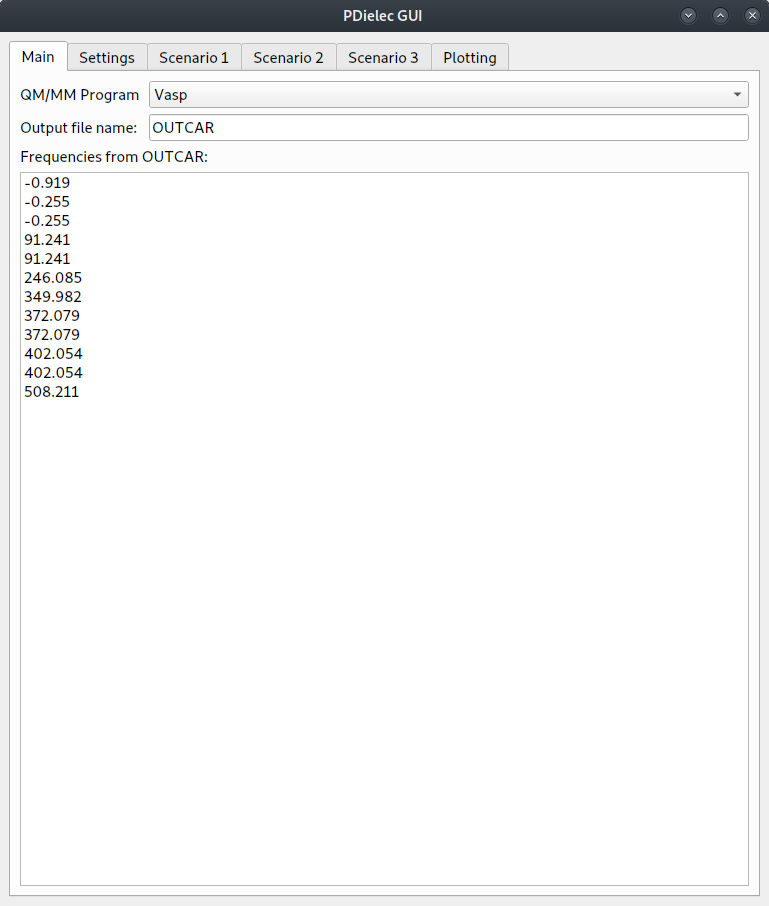
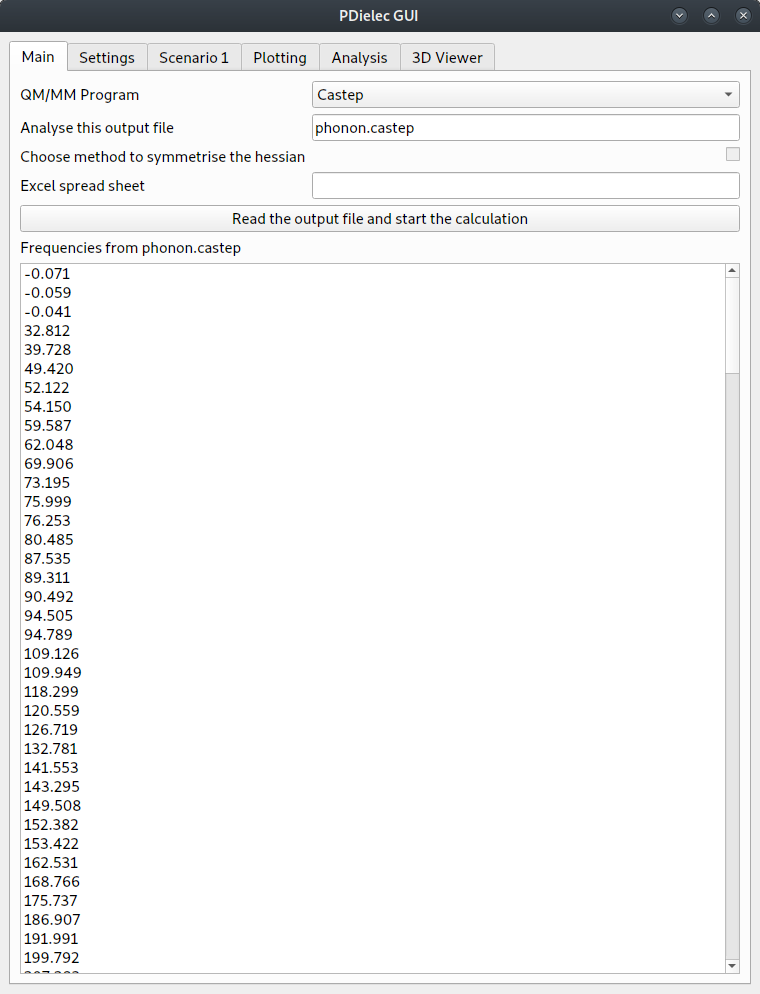
Updated the documentation

Changed region(s): [[0.0, 0.0, 1.0, 0.989]]

diff --git a/Python/GUI/MainTab.py b/Python/GUI/MainTab.py
@@ -3,7 +3,7 @@ import os.path
 from PyQt5.QtWidgets  import  QWidget
 from PyQt5.QtWidgets  import  QListWidget, QComboBox, QLabel, QLineEdit
 from PyQt5.QtWidgets  import  QFileDialog, QPushButton, QCheckBox
-from PyQt5.QtWidgets  import  QFormLayout
+from PyQt5.QtWidgets  import  QFormLayout, QApplication
 from PyQt5.QtWidgets  import  QVBoxLayout, QMessageBox
 from PyQt5.QtCore     import  Qt, QCoreApplication
 from Python.Utilities import  get_reader, Debug
@@ -212,6 +212,7 @@ class MainTab(QWidget):
             print('Need to choose the file and program properly')
             QMessageBox.about(self,'Processing output file','The filename for the output file to be processed is not correct: '+self.settings['Output file name'])
             return
+        QApplication.setOverrideCursor(Qt.WaitCursor)
         # Update the checkbox
         if self.settings['Hessian symmetrisation'] == 'crystal':
             self.hessian_symmetry_cb.setCheckState(Qt.Checked)
@@ -263,6 +264,7 @@ class MainTab(QWidget):
             self.notebook.viewerTab.refresh()
         else:
             debugger.print('notebook has no viewer tab yet')
+        QApplication.restoreOverrideCursor()
 
     def on_hessian_symmetry_changed(self):
         debugger.print('on hessian symmetry changed')
@@ -298,11 +300,13 @@ class MainTab(QWidget):
         # Open a file chooser
         #options = QFileDialog.Options()
         #options |= QFileDialog.DontUseNativeDialog
-        self.settings['Output file name'], _ = QFileDialog.getOpenFileName(self,'Open MM/QM Output file','','Castep (*.castep);;Abinit (*.out);;Gulp (*.gout);;VASP (OUTCAR*);; QE (*.dynG);; Crystal 14 (*.out);; Phonopy (OUTCAR*);; All Files (*)')
-        debugger.print('new file name', self.settings['Output file name'])
-        self.file_le.setText(self.settings['Output file name'])
-        self.directory = os.path.dirname(self.settings['Output file name'])
-        self.dirty = True
+        filename, _ = QFileDialog.getOpenFileName(self,'Open MM/QM Output file','','Castep (*.castep);;Abinit (*.out);;Gulp (*.gout);;VASP (OUTCAR*);; QE (*.dynG);; Crystal 14 (*.out);; Phonopy (OUTCAR*);; All Files (*)')
+        if filename != '':
+            self.settings['Output file name'] = filename
+            self.file_le.setText(self.settings['Output file name'])
+            debugger.print('new file name', self.settings['Output file name'])
+            self.directory = os.path.dirname(self.settings['Output file name'])
+            self.dirty = True
         return
  
     def on_file_le_changed(self, text):

diff --git a/Python/GUI/ViewerTab.py b/Python/GUI/ViewerTab.py
@@ -6,7 +6,7 @@ from PyQt5.QtWidgets         import  QPushButton, QWidget
 from PyQt5.QtWidgets         import  QComboBox, QLabel, QLineEdit
 from PyQt5.QtWidgets         import  QVBoxLayout, QHBoxLayout, QFormLayout
 from PyQt5.QtWidgets         import  QSpinBox, QTabWidget, QDoubleSpinBox
-from PyQt5.QtWidgets         import  QSizePolicy, QColorDialog, QMessageBox
+from PyQt5.QtWidgets         import  QSizePolicy, QColorDialog, QMessageBox, QApplication
 from PyQt5.QtCore            import  Qt
 from Python.Constants        import  wavenumber, amu, PI, avogadro_si, angstrom
 from Python.Constants        import  elemental_colours
@@ -267,6 +267,7 @@ class ViewerTab(QWidget):
         # We need to remember the visualisation settings
         #
         old_plot_type = self.plot_type_index
+        QApplication.setOverrideCursor(Qt.WaitCursor)
         if extension == '.png':
             self.opengl_widget.snapshot(filename)
         elif extension == '.avi':
@@ -276,6 +277,7 @@ class ViewerTab(QWidget):
         elif extension == '.gif':
             self.opengl_widget.save_movie(filename)
         self.plot_type_index = old_plot_type
+        QApplication.restoreOverrideCursor()
         return
 
     def on_coloured_element_clicked(self,boolean):
@@ -377,6 +379,7 @@ class ViewerTab(QWidget):
             return
         if filename is '':
             return
+        QApplication.setOverrideCursor(Qt.WaitCursor)
         # Assemble the settingsTab settings
         settings = self.notebook.settingsTab.settings
         self.frequencies_cm1 = self.notebook.settingsTab.frequencies_cm1
@@ -422,6 +425,7 @@ class ViewerTab(QWidget):
         self.opengl_widget.setRotationCentre(self.unit_cell.calculateCentreOfMass() )
         self.opengl_widget.setImageSize()
         self.dirty = False
+        QApplication.restoreOverrideCursor()
         return
 
     def setColour(self, element, colour):
@@ -496,6 +500,7 @@ class ViewerTab(QWidget):
             debugger.print('refresh aborted',self.dirty,force)
             return
         debugger.print('refresh widget',force)
+        QApplication.setOverrideCursor(Qt.WaitCursor)
         #
         # Block signals during refresh
         # 
@@ -563,5 +568,6 @@ class ViewerTab(QWidget):
             w.blockSignals(False)
         self.calculate()
         self.plot()
+        QApplication.restoreOverrideCursor()
         return
 

diff --git a/Python/GUI/OpenGLWidget.py b/Python/GUI/OpenGLWidget.py
@@ -28,7 +28,7 @@ class OpenGLWidget(QOpenGLWidget):
         self.debug = debug
         self.viewerTab = parent
         self.notebook = parent.notebook
-        self.setMinimumSize(640, 680)
+        self.setMinimumSize(640, 672)
         self.lightingOn = True
         self.diffuseMaterialFactor  = 0.9
         self.ambientMaterialFactor  = 0.4
@@ -86,23 +86,6 @@ class OpenGLWidget(QOpenGLWidget):
             self.current_phase = 1
             self.phase_direction = +1
         debugger.print('Timeout - phase', self.current_phase)
-#        if self.movie and self.number_of_snapshots < 2*self.number_of_phases:
-#            if self.number_of_snapshots == 0:
-#                print('Opening movie.mp4')
-#                self.writer = imageio.get_writer('movie.mp4', mode='I', fps=12)
-#            print('Snap shot',self.number_of_snapshots)
-#            self.number_of_snapshots += 1
-#            image = self.grabFramebuffer()
-#            image.save('snapshot.png')
-#            image = imageio.imread('snapshot.png')
-#            self.writer.append_data(image);
-#        else:
-#            self.movie = False
-#            self.number_of_snapshots = 0
-#            if self.writer is not None:
-#                print('Closing movie.mp4')
-#                self.writer.close();
-#                self.writer = None
         self.update()
 
 
@@ -174,6 +157,15 @@ class OpenGLWidget(QOpenGLWidget):
         for i in range(0,2*self.number_of_phases):
             self.timeoutHandler()
             image = self.grabFramebuffer()
+            x = image.width()
+            y = image.height()
+            modx = x%16
+            mody = y%16
+            startx = int(modx / 2)
+            starty = int(mody / 2)
+            x = x - modx + startx
+            y = y - mody + starty
+            image = image.copy(startx, starty, x,y)
             image.save(tmpfile)
             image = imageio.imread(tmpfile)
             writer.append_data(image);
@@ -192,6 +184,7 @@ class OpenGLWidget(QOpenGLWidget):
 
     def translate(self,x,y):
         debugger.print('translate ',x,y)
+        self.makeCurrent()
         glTranslatef(x, y, 0.0)
             
     def wheelEvent(self, event):

diff --git a/Python/GUI/PlottingTab.py b/Python/GUI/PlottingTab.py
@@ -16,11 +16,11 @@ from multiprocessing import cpu_count, Array
 import Python.Calculator as Calculator
 from PyQt5.QtWidgets  import  QPushButton, QWidget
 from PyQt5.QtWidgets  import  QComboBox, QLabel, QLineEdit
-from PyQt5.QtWidgets  import  QProgressBar
+from PyQt5.QtWidgets  import  QProgressBar, QApplication
 from PyQt5.QtWidgets  import  QVBoxLayout, QHBoxLayout, QFormLayout
 from PyQt5.QtWidgets  import  QSpinBox,QDoubleSpinBox
 from PyQt5.QtWidgets  import  QSizePolicy
-from PyQt5.QtCore     import  QCoreApplication
+from PyQt5.QtCore     import  QCoreApplication, Qt
 from Python.Constants import  wavenumber, amu, PI, avogadro_si, angstrom
 from Python.Constants import  average_masses, isotope_masses
 import ctypes
@@ -352,6 +352,7 @@ class PlottingTab(QWidget):
             return
         if filename is '':
             return
+        QApplication.setOverrideCursor(Qt.WaitCursor)
         # Assemble the settingsTab settings
         self.notebook.plottingCalculationRequired = False
         settings = self.notebook.settingsTab.settings
@@ -519,6 +520,7 @@ class PlottingTab(QWidget):
         if self.notebook.spreadsheet is not None:
             self.write_spreadSheet()
         self.dirty = False
+        QApplication.restoreOverrideCursor()
         QCoreApplication.processEvents()
 
     def write_spreadSheet(self):

diff --git a/Python/GUI/SettingsTab.py b/Python/GUI/SettingsTab.py
@@ -3,7 +3,7 @@ import sys
 import os.path
 import numpy as np
 import Python.Calculator as Calculator
-from PyQt5.QtWidgets  import  QWidget
+from PyQt5.QtWidgets  import  QWidget, QApplication
 from PyQt5.QtWidgets  import  QComboBox, QLabel
 from PyQt5.QtWidgets  import  QCheckBox
 from PyQt5.QtWidgets  import  QVBoxLayout, QFormLayout
@@ -170,6 +170,7 @@ class SettingsTab(QWidget):
         # Only calculate if the reader is set
         if self.reader is None:
             return
+        QApplication.setOverrideCursor(Qt.WaitCursor)
         # Flag the fact that we need new calculations and new analysis
         self.notebook.plottingCalculationRequired = True
         self.notebook.analysisCalculationRequired = True
@@ -235,6 +236,7 @@ class SettingsTab(QWidget):
         if self.notebook.spreadsheet is not None:
             self.write_spreadsheet()
         self.dirty = False
+        QApplication.restoreOverrideCursor()
         QCoreApplication.processEvents()
 
     def write_spreadsheet(self):

diff --git a/Python/GUI/AnalysisTab.py b/Python/GUI/AnalysisTab.py
@@ -1,7 +1,7 @@
 import math
 import numpy as np
 import Python.Calculator as Calculator
-from PyQt5.QtWidgets  import  QWidget
+from PyQt5.QtWidgets  import  QWidget, QApplication
 from PyQt5.QtWidgets  import  QComboBox, QLabel, QLineEdit
 from PyQt5.QtWidgets  import  QVBoxLayout, QHBoxLayout, QFormLayout
 from PyQt5.QtWidgets  import  QSpinBox, QDoubleSpinBox
@@ -313,6 +313,7 @@ class AnalysisTab(QWidget):
             return
         if filename is '':
             return
+        QApplication.setOverrideCursor(Qt.WaitCursor)
         # Assemble the settingsTab settings
         settings = self.notebook.settingsTab.settings
         eckart = settings['Eckart flag']
@@ -388,6 +389,7 @@ class AnalysisTab(QWidget):
             self.write_spreadSheet()
         # Flag that a recalculation is not needed
         self.dirty = False
+        QApplication.restoreOverrideCursor()
 
     def plot(self):
          if self.reader is None:

diff --git a/BuildDocs/pdgui.md b/BuildDocs/pdgui.md
@@ -44,16 +44,26 @@ or
 
     pdgui vasp OUTCAR
 
+If a spreadsheet of results is required the name of the spreadsheet can be provided on the command line.
+
+    pdgui vasp OUTCAR results.xlsx
+    
+The spreadsheet name must have an .xlsx extension.
+
 The package requires the PyQt5 library.
 After running the program the user sees a notebook interface with four tabs.
 
-The *Main Tab* allows the user to specify the program and filename which are to be anaylsed
+The *Main Tab* allows the user to specify the program and filename which are to be anaylsed.  It is also possible to specify here the spreadsheet name of results are going to be saved.
 
 The *Settings Tab* is used for changing the settings within the package
 
 The *Scenario Tab* specifies the material properties used to define the effective medium from which the  absorption characteristic are calculated.  This tab can also be used to change the algorithms used to calculate the effective medium.
 
 The *Plotting Tab* shows the absorption or permittivity as a function of frequency.
+
+The *Analysis Tab* shows the decomposition of the normal modes into molecular components.
+
+The *Visualisation Tab* displays the normal modes as either arrows showing the atomic displacement or as an animation.
 
 
 ## Main tab
@@ -65,7 +75,9 @@ The *Main Tab* is used to pick the MM/QM package and the output file which will 
 ~
 [img-mainTab]: Figures/MainTab.png { width:80%; }
 
-The QM/MM program can be chosen from the dropdown list.  The output file name can be input into the text box below it.  Any entry in this *Output file name* text box will be read when the user types an 'Enter' command.  If the file is not valid a file chooser will pop-up and the user can select a file from that.
+The QM/MM program can be chosen from the dropdown list.  The output file name can be input into the text box below it.  Any entry in this *Output file name* text box will be read when the 'Read the output file and start the calculation' button is pressed.  If the file is not valid a file chooser will pop-up and the user can select a file from that.
+
+If an Excel spreadsheet file name given, it must have the extensions .xlsx.  The spreadsheet is written when the program exits.
 
 Once the file has been specified and read the frequencies found in the calculation file are reported in the output text box.
 
@@ -83,7 +95,7 @@ The Eckart conditions control whether 3 modes at zero frequency due to translati
 
 There is an option to set the sum of the Born charge matrices to zero.  By default this is not applied.  
 
-The atomic masses can be specified in a variety of way.  They can be chosen from;
+The atomic masses can be specified in a variety of ways.  They can be chosen from;
 . The average natural abundance
 . The masses used by the QM/MM program
 . The isotopic mass of the most abundant isotope
@@ -98,7 +110,7 @@ The output table at the bottom of the tab shows the calculated frequencies and t
 
 ## Scenario Tabs
 
-There can be more than one *Scenario Tab".  Each one specifies a particular material, method or particle shape which will be used in the *Plotting Tab*.
+There can be more than one *Scenario Tab*.  Each one specifies a particular material, method or particle shape which will be used in the *Plotting Tab*.
 
 ~ Figure { #fig-scenarioTab; caption: "The Scenario Tab"; page-align:inplace }
 ![img-scenarioTab]
@@ -109,9 +121,9 @@ The support matrix into which the active dielectric material is dispersed can be
 
 The amount of dielectric material to be considered can be entered either as mass fraction (in percent) or as a volume fraction (in percent).  If the matrix support density is changed the calculated mass fraction will be updated.  It is assumed that the volume fraction has precedence.
 
-The calculation of the effective medium can be performed using a variety of methods which can be chosen from the *Method* drop down menu.  If the *Mie* method is chosen the user can enter the particles radius (microns).  The *Particle sigma* specifies the width of the LogNormal distribution.  If the width is 0.0 no sampling of the distribution is performed.
+The calculation of the effective medium can be performed using a variety of methods which can be chosen from the *Method* drop down menu.  If the *Mie* method is chosen the user can enter the particles radius (microns).  The *Particle sigma* specifies the width of a log-normal distribution.  If the width is 0.0 no sampling of the distribution is performed.
 
-For effective medium theories other than the Mie method the particle shape can be specfied using the *Shape* pull down menu.  Possible shapes are *Sphere*, *Needle*, *Plate* and *Ellipsoid*.  For the cases of *Needle* and *Ellipsoid* the unique direction is specifed by a direction [abc] in lattice units.  In the case of *Plate* the unique direction is specifies as the normal to a plane (hkl) in reciprical lattice units.  If an *Ellipsood* shape is used the eccentricy factor can be specified in the *Ellipsoid a/b eccentricity* text box.
+For effective medium theories other than the Mie method the particle shape can be specfied using the *Shape* pull down menu.  Possible shapes are *Sphere*, *Needle*, *Plate* and *Ellipsoid*.  For the cases of *Needle* and *Ellipsoid* the unique direction is specifed by a direction \[abc\] in lattice units.  In the case of *Plate* the unique direction is specifies as the normal to a plane (hkl) in reciprical lattice units.  If an *Ellipsood* shape is used the eccentricy factor can be specified in the *Ellipsoid a/b eccentricity* text box.
 
 The plot in the *Plotting Tab* has a legend and the description used in the legend for each scenario can be set by filling out the text box associated with the *Scenario legend*.
 
@@ -133,14 +145,38 @@ By default the calculation uses moles of unit cells to calculation the molar abs
 
 The title of the plot can be supplied by entering it into the *Plot title* text box and the frequency units used for the plot can also be changed from *wavenumber* to *THz*.
 
-The molar absorption, the absorption and the real or imaginary permittivity can be plotted.  Once a plot has been requested the calculation progress is shown in the progress bar.  Some settings can be changed with the whole plot being recalculated.
+The molar absorption, the absorption and the real or imaginary permittivity can be plotted.  Once a plot has been requested the calculation progress is shown in the progress bar.  Some settings can be changed without the whole plot being recalculated.
+
+## Analysis tab
+
+The *analysis tab* shows a breakdown of the phonon modes into molecular components.  The molecular structure of the unit cell is determined by the covalent radii of the atoms.  These can be speficied individually if needed.  The *analysis tab* shows the number of molecules that have been found in the analysis.
+
+~ Figure { #fig-AnalysisTab; caption: "The Analysis Tab"; page-align:inplace }
+![img-AnalysisTab]
+~
+[img-AnalysisTab]: Figures/AnalysisTab.png { width:80%; }
+
+The bar graph shows a break down of each normal mode in the chosen frequency range into either internal and external contributions or into molecular components.  The atom sizes and the molecular composition of the unit cell is displayed in the *3D viewer tab*
+
+## 3D Viewer tab
+
+The *3d viewer tab* shows the unit cell of the system using the molecular information and atomic sizes from the *analysis tab*.
+
+The atomic displacement of each phonon can either be shown as arrows or as an animation.  The views and animations can be recorded in  .png and .mp4 files respectively.  If a .gif file is specified the animation is recorded but with reduced numbers of colours.
+
+~ Figure { #fig-ViewerTab; caption: "The 3D Viewer Tab"; page-align:inplace }
+![img-ViewerTab]
+~
+[img-ViewerTab]: Figures/ViewerTab.png { width:80%; }
+
+As well as being able to change the phonon mode being analysed.  The colours and many settings in the visualiser can be adjusted from the settings tab.
 
 
 # INSTALLATION
 
 pdgui requires the PyQT5 libraries in addition to the libraries used by PDielec, these will be installed automatically by matplotlib.
 
-Installation on Microsoft Windows 10 was succesful using Anaconda with Python 3.6
+Installation on Microsoft Windows 10 was successful using Anaconda with Python 3.6
 
     conda create -n pdielec36 python=3.6
     conda activate pdielec36
@@ -150,7 +186,12 @@ Installation on Microsoft Windows 10 was succesful using Anaconda with Python 3.
     pip install termcolor
     pip install xlsxwriter
     pip install pyyaml
+    pip install imageio
+    
+The imageio library is used to create the image snapshots and movies from the *3d viewer tab*.  Its use requires the installation of some binary files, if they haven't already been installed.  The following command will make sure these have been downloaded.
 
+    imageio_download_bin
+    
 Installation on Linux requires pyqt5 modules.  If they have not been installed already with maplotlib.  If you don't have sudo access you can install the module in your user directory;
 
 

diff --git a/BuildDocs/phonana.md b/BuildDocs/phonana.md
@@ -30,6 +30,7 @@ Bibliography: ./pdielec.bib
 
 
 # INTRODUCTION
+Phonana has been superceded by the pdgui program.  For the time being the details of algorithms used in the analysis section of pdgui will be kept here.  It is reccommended that users use the pdgui package program for any analysis.
 
 Phonana is a 'helper' program which uses the underlying modules of PDielec to read an output file from an MM or QM calculation of the phonon modes in a crystal.  The phonon modes are analysed and the percentage of molecular centre-of-mass and rigid body rotational motion in each mode is calculated.  Using the results of the analysis it is possible to differentiate between inter- and intra-molecular phonon modes (see for instance Jepsen et al [@Jepsen2007]).
 
